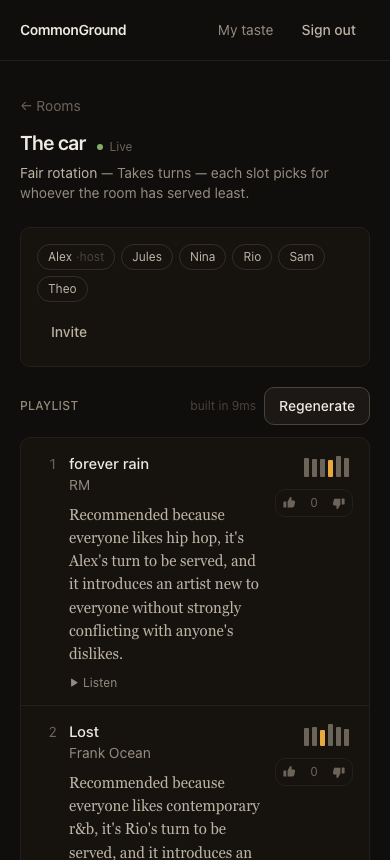
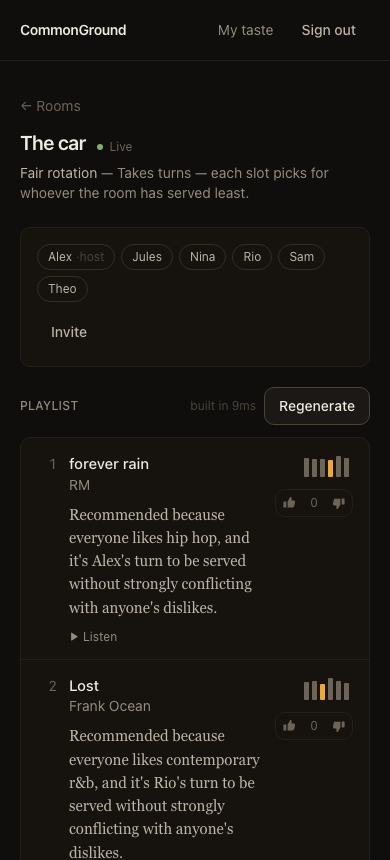
docs: add the full local verification recipe; regenerate measurements and screenshots
development.md now carries the exact command sequence CI runs, including
starting the API with RATE_LIMIT_ENABLED=false (passed to the process,
not exported, so pytest in the same shell is unaffected).

measurements.md and api-latency.json regenerated from an unthrottled
run: login and generate are now n=25 rather than capped at the limit.
Screenshots regenerated. Test badge 258 -> 263.

diff --git a/docs/measurements.md b/docs/measurements.md
@@ -290,7 +290,7 @@ And the unconstrained search chose `tau_veto = 0.00` for fair_rotation. That max
 
 ## API latency
 
-*Measured 2026-09-06T23:55:34Z against `http://localhost:8010`, 25 runs per endpoint.*
+*Measured 2026-09-07T00:28:26Z against `http://localhost:8010`, 25 runs per endpoint.*
 
 Measured over HTTP against a live server, so the numbers include serialisation and the connection pool. The first playlist request pays to fit the recommender and is reported separately as a cold cost rather than a request cost.
 
@@ -298,20 +298,20 @@ p50 and p95 rather than a mean. A mean hides the tail, and the tail is what a us
 
 | endpoint | p50 | p95 | max | n |
 | --- | --- | --- | --- | --- |
-| `POST /api/auth/signup` | 36.4ms | 36.4ms | 36.4ms | 1 |
-| `POST /api/auth/login` | 27.5ms | 29.5ms | 32.7ms | 20 |
-| `POST /api/rooms/{id}/playlist` | 15.9ms | 18.0ms | 18.2ms | 19 |
-| `GET /api/rooms/{id}/playlist` | 4.9ms | 5.8ms | 6.1ms | 25 |
-| `GET /api/profile` | 4.0ms | 5.0ms | 6.1ms | 25 |
-| `GET /api/tags` | 3.5ms | 4.3ms | 4.7ms | 25 |
-| `GET /api/rooms/{id}` | 3.5ms | 4.1ms | 5.2ms | 25 |
-| `GET /api/auth/me` | 2.9ms | 3.6ms | 4.6ms | 25 |
-| `GET /api/artists?q=` | 2.7ms | 3.6ms | 4.4ms | 25 |
-| `GET /api/rooms` | 3.0ms | 3.5ms | 5.4ms | 25 |
-| `GET /api/artists` | 3.0ms | 3.4ms | 3.7ms | 25 |
-| `GET /health` | 1.6ms | 1.9ms | 7.1ms | 25 |
+| `POST /api/auth/signup` | 32.4ms | 32.4ms | 32.4ms | 1 |
+| `POST /api/auth/login` | 27.5ms | 28.7ms | 29.1ms | 25 |
+| `POST /api/rooms/{id}/playlist` | 16.4ms | 18.7ms | 25.4ms | 25 |
+| `GET /api/rooms/{id}/playlist` | 5.2ms | 6.2ms | 7.4ms | 25 |
+| `GET /api/profile` | 3.6ms | 5.2ms | 6.2ms | 25 |
+| `GET /api/tags` | 3.5ms | 4.6ms | 6.0ms | 25 |
+| `GET /api/rooms` | 3.0ms | 4.2ms | 5.5ms | 25 |
+| `GET /api/rooms/{id}` | 3.4ms | 4.1ms | 5.9ms | 25 |
+| `GET /api/artists` | 3.0ms | 3.4ms | 3.5ms | 25 |
+| `GET /api/artists?q=` | 2.6ms | 3.4ms | 3.8ms | 25 |
+| `GET /api/auth/me` | 3.0ms | 3.2ms | 3.4ms | 25 |
+| `GET /health` | 1.6ms | 1.7ms | 2.3ms | 25 |
 
-**First playlist on a cold process: 554.7ms.** That is the model being fitted, not a request being served -- the snapshot is cached for the life of the process, and `/health` reports its age so a slow first request is explicable rather than mysterious.
+**First playlist on a cold process: 556.0ms.** That is the model being fitted, not a request being served -- the snapshot is cached for the life of the process, and `/health` reports its age so a slow first request is explicable rather than mysterious.
 
 Login is the slowest endpoint and should be: almost all of those 27ms are Argon2, deliberately. It is also why the login endpoint is rate limited -- at 27ms a guess, an open endpoint accepts roughly 37 password attempts a second.
 

diff --git a/docs/development.md b/docs/development.md
@@ -121,6 +121,42 @@ a Postgres service container precisely so the skip cannot become permanent.
 Each database test runs inside a transaction that is rolled back, so the suite
 leaves no rows behind and can be run against your development database safely.
 
+## Full local verification
+
+Everything the CI pipeline runs, in one place. Assumes the setup and demo-data
+steps above are done and Postgres is up.
+
+Start the two servers, with **rate limiting off** on the API — the end-to-end
+suite and the latency script sign in dozens of times from `localhost`, and a
+per-IP limiter would throttle the run itself:
+
+```bash
+RATE_LIMIT_ENABLED=false ./.venv/bin/uvicorn commonground_api.main:app --port 8010 &
+npm run dev --prefix apps/web &
+```
+
+Pass `RATE_LIMIT_ENABLED` to the process as shown — do **not** `export` it, or
+`pytest` in the same shell inherits it and the limiter tests fail. The limiter
+still has full coverage in `apps/api/tests/test_auth.py`, which forces it on.
+
+```bash
+export DATABASE_URL=postgresql://commonground:commonground@localhost:5434/commonground
+
+./.venv/bin/pytest -q && ./.venv/bin/ruff check . && ./.venv/bin/ruff format --check .
+npm test --prefix apps/web && npm run build --prefix apps/web
+
+./.venv/bin/python scripts/measure_api.py --runs 25   # refuses if the limiter is on
+./.venv/bin/python scripts/write_measurements.py       # regenerates docs/measurements.md
+
+(cd apps/web && E2E_BASE_URL=http://localhost:5173 npx playwright test)
+```
+
+Regenerate the README screenshots (desktop only, writes to `docs/images/`):
+
+```bash
+(cd apps/web && E2E_BASE_URL=http://localhost:5173 npx playwright test screenshots --project=desktop)
+```
+
 ## Demo accounts
 
 `scripts/seed.py` creates six accounts, password from `DEMO_USER_PASSWORD`

diff --git a/README.md b/README.md
@@ -14,7 +14,7 @@ explicitly rejected — and tells you, per track, in a sentence, why it is there
   <img alt="FastAPI" src="https://img.shields.io/badge/FastAPI-009688?logo=fastapi&logoColor=white">
   <img alt="React 19" src="https://img.shields.io/badge/React_19-Vite-61dafb?logo=react&logoColor=black">
   <img alt="PostgreSQL 17" src="https://img.shields.io/badge/PostgreSQL-17-336791?logo=postgresql&logoColor=white">
-  <img alt="258 tests" src="https://img.shields.io/badge/tests-258%20passing-4ade80">
+  <img alt="263 tests" src="https://img.shields.io/badge/tests-263%20passing-4ade80">
   <img alt="MIT" src="https://img.shields.io/badge/licence-MIT-blue">
 </p>
 
